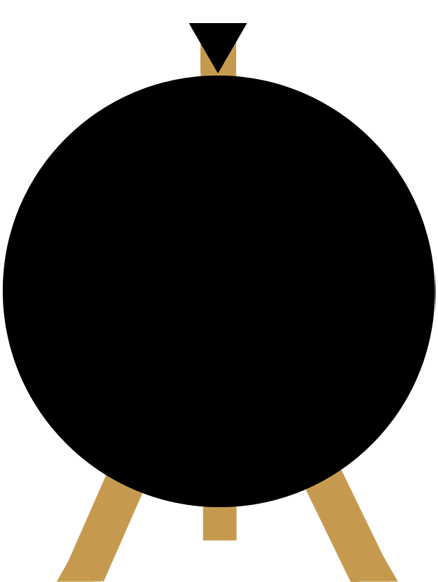
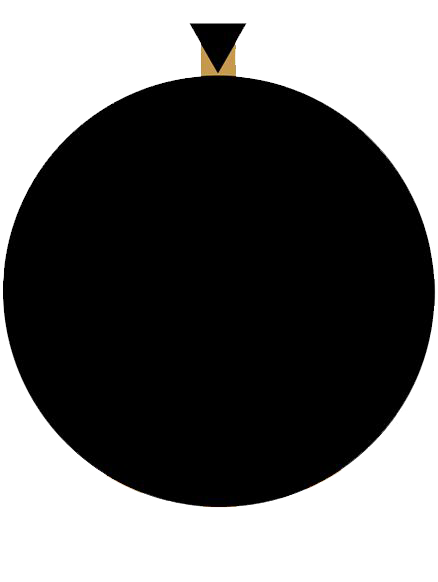
Add editable participant list Update background image Fix various bugs

diff --git a/index.html b/index.html
@@ -57,9 +57,9 @@
         </tr>
     </table>
 </div>
-                <p>Log</p>
-                <div id="log" style="{display: block}">
-                </div>
+<p>Log</p>
+<div id="log">
+</div>
 <script>
 
     let segments = // Define segments including colour and text.
@@ -116,22 +116,39 @@
         li.setAttribute('id', value);
         li.style.setProperty('color', color);
 
-        div = document.createElement("div");
-        div.className = "color-picker";
+        let div_cont = document.createElement("div")
+        div_cont.className = "participant-menu";
 
-        div_cont = document.createElement("div")
-        div_cont.className = "item-container";
+        let colorPicker = document.createElement("div");
+        colorPicker.className = "color-picker";
 
-        div_cont.appendChild(document.createTextNode(value))
-        div_cont.appendChild(div)
+        let nameNode = document.createElement("div");
+        nameNode.className = "participant-name"
+
+        let textNode = document.createElement("input");
+        textNode.type = "text";
+        textNode.value = value;
+
+        textNode.onclick = function () {
+            selectedNodeFromList = getSlice(this.value)
+        }
+
+        textNode.onblur = function() {
+            selectedNodeFromList.text = this.value
+            resetWheel();
+        }
+
+        nameNode.appendChild(textNode);
+
+        div_cont.appendChild(nameNode)
+        div_cont.appendChild(colorPicker)
 
         let pickr = Pickr.create({
-            el: div,
-            theme: 'nano', // or 'monolith', or 'nano'
+            el: colorPicker,
+            theme: 'nano',
             default: color,
 
             components: {
-
                 // Main components
                 preview: true,
                 hue: true,
@@ -159,12 +176,15 @@
             });
 
         });
+
         let button = document.createElement("input");
         button.type = "button";
         button.value = "Remove";
         button.onclick = function () {
-            removeFromList(value);
-            resetWheel();
+            result = removeFromListAndWheel(value);
+            if (result) {
+                resetWheel();
+            }
         };
 
         div_cont.appendChild(button);
@@ -180,40 +200,47 @@
         resetWheel();
     }
 
-    function removeFromWheelByName(name) {
-        let found = false;
-        let i = 0;
-        theWheel.segments.forEach(s => {
-            if (s != null) {
-                if (s.text === name) {
-                    found = true;
-                    i = theWheel.segments.indexOf(s);
-                    console.log("found " + i + " with " + name);
-                }
+    function getSlice(value) {
+        return theWheel.segments.find(function (el) {
+                return el != null && el.text === value;
             }
-        });
-        if (found) {
-            theWheel.deleteSegment(i);
-            resetWheel();
+        )
+    }
+
+    function getSliceIndex(value) {
+        return theWheel.segments.indexOf(getSlice(value));
+    }
+
+    function removeFromWheelByName(name) {
+        if (!wheelSpinning && !wheelFlashing) {
+            let sliceIndex = getSliceIndex(name);
+            if (!isNaN(sliceIndex)) {
+                theWheel.deleteSegment(sliceIndex);
+            }
         }
     }
 
-    function removeFromList(value) {
-        if (wheelSpinning || wheelFlashing) {
-            return;
+    function removeFromListAndWheel(value) {
+        if (wheelSpinning || wheelFlashing || theWheel.segments.filter(s => !!s).length === 1) {
+            return false;
         }
+
         let ul = document.getElementById("dynamic-list");
         if (value) {
             let item = document.getElementById(value);
             if (item) {
                 ul.removeChild(item);
                 removeFromWheelByName(value);
+                theWheel.rotationAngle = 0;
+                resetWheel();
+                return true;
             } else {
                 console.error("Can't find item ", value);
             }
         } else {
             console.error("Empty candidate");
         }
+        return false;
     }
 
     segments.forEach(s => addToList(s['text'], s['fillStyle']));
@@ -247,6 +274,8 @@
             wheelPower = powerLevel;
         }
     }
+
+    powerSelected(1);
 
     function refreshPage() {
         window.location.reload();
@@ -295,7 +324,6 @@
     // -------------------------------------------------------
     function resetWheel() {
         theWheel.stopAnimation(false);  // Stop the animation, false as param so does not call callback function.
-        //theWheel.rotationAngle = 0;     // Re-set the wheel angle to 0 degrees.
         theWheel.draw();                // Call draw to render changes to the wheel.
 
         document.getElementById('pw1').className = "";  // Remove all colours from the power level indicators.
@@ -303,24 +331,25 @@
         document.getElementById('pw3').className = "";
 
         wheelSpinning = false;          // Reset to false to power buttons and spin can be clicked again.
+        powerSelected(wheelPower);
     }
 
     async function flash(indicatedSegment, numOfTimes) {
         wheelFlashing = true;
 
         let el = document.getElementById(indicatedSegment.text);
-        let originalColor = el.style.color;
+        let originalColor = el.style.backgroundColor;
 
 
         for (let i = 0; i < numOfTimes; i++) {
             let originalFillStyle = indicatedSegment.fillStyle;
             indicatedSegment.fillStyle = 'yellow';
-            el.style.setProperty('color', 'yellow');
+            el.style.setProperty('background-color', 'yellow');
             resetWheel();
             await sleep(300);
 
             indicatedSegment.fillStyle = originalFillStyle;
-            el.style.setProperty('color', originalColor);
+            el.style.setProperty('background-color', originalColor);
             resetWheel();
             await sleep(300);
         }
@@ -329,21 +358,15 @@
 
     async function alertPrize(indicatedSegment) {
         document.getElementById("caption").textContent = " >> " + indicatedSegment.text + " << ";
+
         let log = document.getElementById("log");
         let d = new Date()
         log.appendChild(document.createTextNode("[" + d.toGMTString() + "]    " + indicatedSegment.text + " won"))
         log.appendChild(document.createElement("br"));
 
-
         await flash(indicatedSegment, 5);
 
-        removeFromList(indicatedSegment.text);
-
-        let segmentIndex = theWheel.segments.indexOf(indicatedSegment);
-
-        theWheel.rotationAngle = (360 / theWheel.numSegments) * segmentIndex;
-
-        resetWheel();
+        removeFromListAndWheel(indicatedSegment.text);
     }
 </script>
 </body>

diff --git a/main.css b/main.css
@@ -68,6 +68,11 @@ td.pw3
     background-color: #ef6f6f;
 }
 
+div.participant-menu
+{
+    margin-top: 1em;
+}
+
 /* Style applied to the spin button once a power has been selected */
 .clickable
 {
